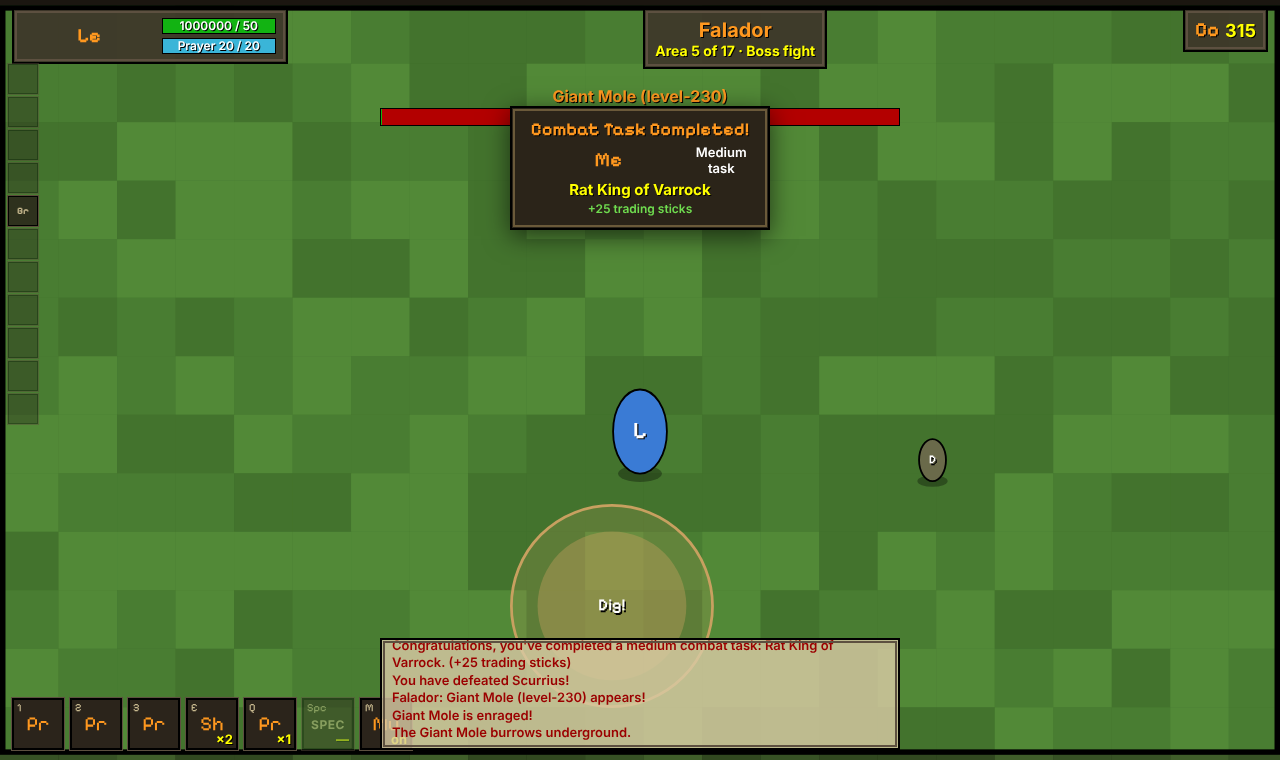
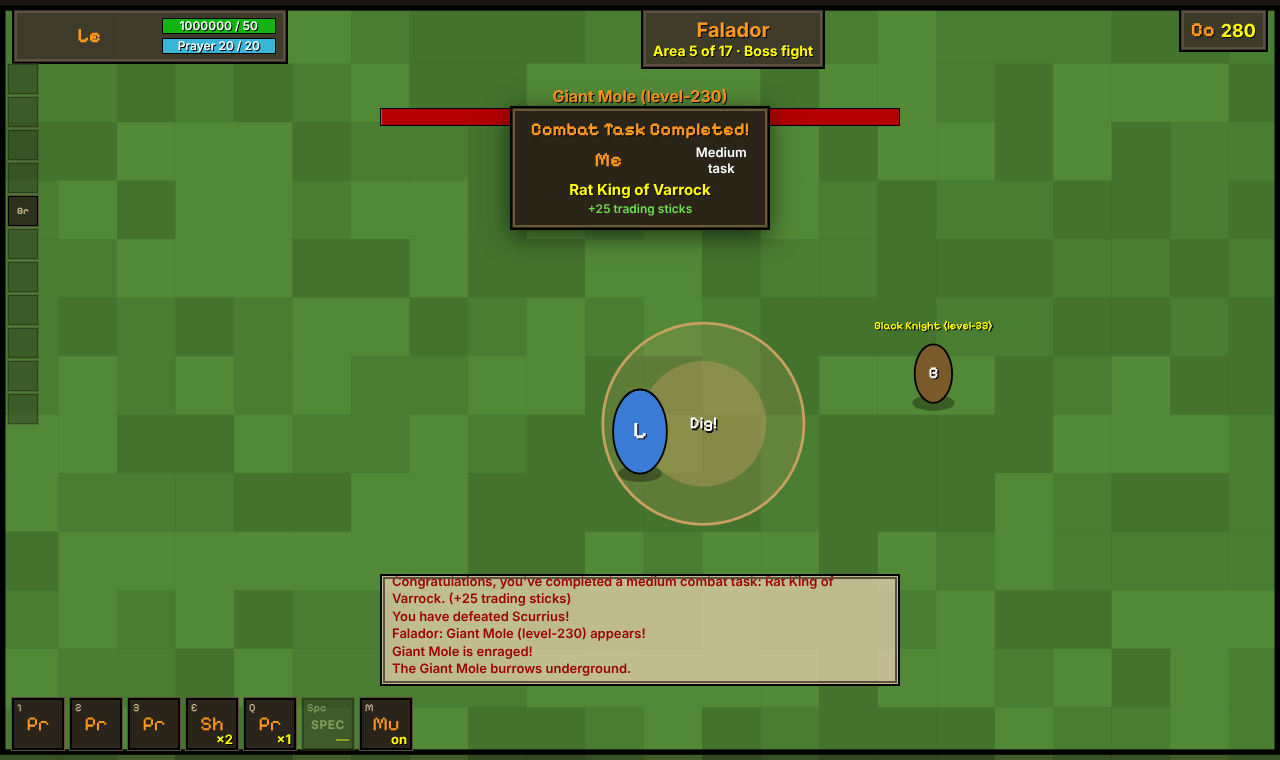
Varied minion attacks and attack shapes, enchanted bolts, max capes, Nex before the raids
About 55 enemy types get a telegraphed move (lunge, smash, spit, breath
cone, volley, nova ring, cross blast). Telegraphs now come in circle,
square, cross, cone and ring shapes, and projectiles draw as arrows,
orbs with tails, rocks or blobs. Adds Adamant arrows, four enchanted
dragon bolts with their wiki effects, Rada's blessing 4, the max capes
(Imbued Saradomin max cape is the best magic cape) and an Imbued
Zamorak cape. The Ancient Prison now comes before the raids.

Claude-Session: https://claude.ai/code/session_01QP3hDncgVMuDYSY9UCTwho

diff --git a/js/game.js b/js/game.js
@@ -767,7 +767,7 @@ function playerAttack(dt) {
     for (let i = 0; i < count; i++) {
       const a = ang + (i - (count - 1) / 2) * spread;
       shots.push({ kind: 'arrow', x: p.x, y: p.y - 30, vx: Math.cos(a) * w.speed, vy: Math.sin(a) * w.speed, life: (w.range * st.range) / w.speed + 0.1,
-        pierce: w.pierce + st.pierce, hit: new Set(), dmg: w.dmg, bolt: w.bolt, dart: w.dart, bounce: (w.bounce || 0) + bv('chain'), icon: ammo && ammo.slot === 'ammo' && ammo.lane === 'ranged' ? ammo.file : null });
+        pierce: w.pierce + st.pierce, hit: new Set(), dmg: w.dmg, bolt: w.bolt, dart: w.dart, bounce: (w.bounce || 0) + bv('chain'), icon: ammo && ammo.slot === 'ammo' && ammo.lane === 'ranged' ? ammo.file : null, proc: ammo && ammo.proc });
     }
   } else {
     sfx(480, 0.09, 'sine', 0.04);
@@ -791,6 +791,55 @@ function specHit(s, e, dmg) {
       if (Math.hypot(o.x - e.x, o.y - e.y) < S.aoe + o.r * 0.5) { const r = rollDamage(s.dmg * 0.6, o, st); damageEnemy(o, r.dmg, r.crit); }
     }
   }
+}
+
+// Enchanted bolt effects
+function boltProc(kind, e, dmg, st) {
+  const P = BOLT_PROCS[kind];
+  if (!P || Math.random() >= P.chance) return;
+  const p = run.p;
+  let extra = 0;
+  if (kind === 'ruby') { extra = Math.min(Math.round(e.hp * 0.2), 100 + 25 * run.stage); p.hp = Math.max(1, p.hp - Math.round(p.hp * 0.1)); }
+  else if (kind === 'diamond') extra = Math.round(Math.max(dmg, 1) * 0.15 + 4 + run.stage);
+  else if (kind === 'onyx') { extra = Math.round(Math.max(dmg, 1) * 0.2 + 3); p.hp = Math.min(st.maxHp, p.hp + (dmg + extra) * 0.25); }
+  else if (kind === 'dragonstone') extra = Math.round(run.skills.ranged * 0.2 * (1 + run.stage * 0.08)) + 2;
+  if (extra > 0) { damageEnemy(e, extra, true); burst(e.x, e.y - e.d.size * 0.4, kind === 'ruby' ? '#e0103a' : kind === 'onyx' ? '#7a3a8a' : kind === 'diamond' ? '#e8f8ff' : '#ff6a1a', 12); }
+}
+
+// Is (x, y) inside a telegraphed attack's area?
+function inTelegraph(t, x, y) {
+  const dx = x - t.x, dy = y - t.y, d = Math.hypot(dx, dy);
+  if (t.shape === 'ring') return d < t.r && d > t.r * 0.45;
+  if (t.shape === 'square') return Math.abs(dx) < t.r && Math.abs(dy) < t.r;
+  if (t.shape === 'cross') return (Math.abs(dx) < t.w / 2 && Math.abs(dy) < t.r) || (Math.abs(dy) < t.w / 2 && Math.abs(dx) < t.r);
+  if (t.shape === 'cone') {
+    const da = Math.abs(((Math.atan2(dy, dx) - t.a + Math.PI * 3) % (Math.PI * 2)) - Math.PI);
+    return d < t.r && da < t.spread / 2;
+  }
+  return d < t.r;
+}
+
+// Minion telegraphed moves (MINION_ATK in data.js)
+function minionMove(e, dt, dist) {
+  const kind = MINION_ATK[e.id];
+  if (!kind || e.summoned && e.d.boss) return;
+  e.mvT = (e.mvT === undefined ? 1.5 + Math.random() * 2.5 : e.mvT) - dt;
+  const reach = { lunge: 280, smash: 110, spit: 400, breath: 280, volley: 420, nova: 200, cross: 360 }[kind];
+  if (e.mvT > 0 || dist > reach) return;
+  e.mvT = 3.2 + Math.random() * 2.2;
+  const p = run.p, a = Math.atan2(p.y - e.y, p.x - e.x), dmg = e.dmg;
+  const col = e.d.style === 'magic' ? '#b070ff' : e.d.style === 'ranged' ? '#7fd04a' : '#ff8a3a';
+  if (kind === 'lunge') {
+    telegraphs.push({ line: true, x: e.x, y: e.y, a, len: 300, w: 46, t: 0.55, max: 0.55, color: '#ffd23a', dmg: dmg * 1.4, style: 'melee', label: '' });
+    setTimeout(() => { if (!e.dead && mode === 'play') e.charge = { vx: Math.cos(a) * 760, vy: Math.sin(a) * 760, t: 0.38, spd: 0 }; }, 550);
+  } else if (kind === 'smash') slam(e.x, e.y - 10, 85, 0.7, dmg * 1.6, 'melee', '#c8a060', '', { shape: 'square' });
+  else if (kind === 'spit') {
+    slam(p.x, p.y, 58, 1.0, dmg * 1.3, e.d.style === 'melee' ? 'ranged' : e.d.style, '#7fd04a', '');
+    eshots.push({ x: e.x, y: e.y - e.d.size * 0.5, vx: (p.x - e.x) / 1.0, vy: (p.y - e.y) / 1.0, r: 7, dmg: 0, style: 'ranged', color: '#7fd04a', life: 1, shape: 'blob', harmless: true });
+  } else if (kind === 'breath') slam(e.x, e.y - 20, 280, 0.75, dmg * 1.5, 'magic', '#ff6a1a', '', { shape: 'cone', a, spread: 0.75 });
+  else if (kind === 'volley') { for (let i = -1; i <= 1; i++) aimShot(e, 430, e.d.style === 'melee' ? 'ranged' : e.d.style, col, dmg, { r: 8, shape: e.d.style === 'magic' ? 'orb' : 'arrow' }, i * 0.2); }
+  else if (kind === 'nova') slam(e.x, e.y - 10, 190, 0.9, dmg * 1.4, e.d.style === 'melee' ? 'magic' : e.d.style, '#9fd8ff', '', { shape: 'ring' });
+  else if (kind === 'cross') slam(p.x, p.y, 210, 0.9, dmg * 1.4, e.d.style === 'melee' ? 'magic' : e.d.style, col, '', { shape: 'cross', w: 52 });
 }
 
 function updateShots(dt) {
@@ -820,6 +869,7 @@ function updateShots(dt) {
           if (s.spec && !r.dmg) r = rollDamage(s.dmg, e, st);
           damageEnemy(e, r.dmg, r.crit || !!s.spec);
           if (s.spec) specHit(s, e, r.dmg);
+          if (s.proc && !e.dead) boltProc(s.proc, e, r.dmg, st);
           if (s.bounce > 0) {
             // Venator bow: the arrow bounces to the next nearby enemy
             const next = enemies.find((o) => !o.dead && !s.hit.has(o) && Math.hypot(o.x - e.x, o.y - e.y) < 220);
@@ -902,6 +952,7 @@ function updateEnemies(dt) {
         eshots.push({ x: e.x, y: e.y - e.d.size * 0.5, vx: dx / dist * sp, vy: (dy + e.d.size * 0.5) / dist * sp, r: 9, dmg: e.dmg, style: e.d.style, color: e.d.caster.color, life: 3 });
       }
     }
+    if (!e.d.boss && !e.d.clue) minionMove(e, dt, realDist);
     const spd = (e.charge ? e.charge.spd : e.d.spd) * (e.slow || 1);
     if (e.charge) {
       e.x += e.charge.vx * dt; e.y += e.charge.vy * dt; e.charge.t -= dt;
@@ -945,7 +996,8 @@ function fan(e, n, step, speed, style, color, dmg, extra) {
   for (let i = 0; i < n; i++) aimShot(e, speed, style, color, dmg, extra, (i - (n - 1) / 2) * step);
 }
 function slam(x, y, r, delay, dmg, style, color, label, extra) {
-  telegraphs.push({ x, y, r, t: delay, max: delay, color, dmg, style, label, noPray: !!(extra && extra.noPray) });
+  const ex = extra || {};
+  telegraphs.push({ x, y, r, t: delay, max: delay, color, dmg, style, label, noPray: !!ex.noPray, shape: ex.shape || 'circle', a: ex.a || 0, spread: ex.spread || 0.6, w: ex.w || 50 });
 }
 function summon(e, id, n, opts = {}) {
   for (let i = 0; i < n; i++) {
@@ -983,7 +1035,8 @@ function clueSpecial(e) {
   const p = run.p, m = e.d.mech || 'slam', dmg = e.dmg;
   const np = { noPray: true };
   if (m === 'bombs') {
-    for (let i = 0; i < 5; i++) slam(p.x + (i ? (Math.random() - 0.5) * 300 : 0), p.y + (i ? (Math.random() - 0.5) * 240 : 0), 60, 1.0 + i * 0.15, dmg * 1.4, e.d.style, '#ff981f', i ? '' : 'Special!');
+    const shapes = ['circle', 'square', 'cross'], sh = shapes[(e.ai.bombN = (e.ai.bombN || 0) + 1) % 3];
+    for (let i = 0; i < 5; i++) slam(p.x + (i ? (Math.random() - 0.5) * 300 : 0), p.y + (i ? (Math.random() - 0.5) * 240 : 0), sh === 'cross' ? 110 : 60, 1.0 + i * 0.15, dmg * 1.4, e.d.style, '#ff981f', i ? '' : 'Special!', { shape: sh, w: 40 });
   } else if (m === 'volley') {
     fan(e, 7, 0.14, 420, e.d.style === 'melee' ? 'ranged' : e.d.style, (e.d.caster && e.d.caster.color) || '#ff981f', dmg);
   } else if (m === 'summon') {
@@ -1285,7 +1338,7 @@ function updateEnemyShots(dt) {
       s.vx = Math.cos(a) * sp; s.vy = Math.sin(a) * sp;
     }
     s.x += s.vx * dt; s.y += s.vy * dt; s.life -= dt;
-    if (Math.hypot(p.x - s.x, p.y - 30 - s.y) < p.r + s.r) {
+    if (!s.harmless && Math.hypot(p.x - s.x, p.y - 30 - s.y) < p.r + s.r) {
       s.life = 0;
       hurtPlayer(s.dmg, s.style, s);
     }
@@ -1301,8 +1354,9 @@ function updateEnemyShots(dt) {
         const dx = p.x - t.x, dy = p.y - t.y, along = dx * Math.cos(t.a) + dy * Math.sin(t.a), off = Math.abs(-dx * Math.sin(t.a) + dy * Math.cos(t.a));
         if (along > 0 && along < t.len && off < t.w / 2) hurtPlayer(t.dmg, t.style);
       } else {
-        fx.push({ kind: 'boom', x: t.x, y: t.y, r: t.r, color: t.color, t: 0.35, max: 0.35 });
-        if (Math.hypot(p.x - t.x, p.y - t.y) < t.r) hurtPlayer(t.dmg, t.style, { noPray: t.noPray });
+        if (t.shape === 'circle' || t.shape === 'ring') fx.push({ kind: 'boom', x: t.x, y: t.y, r: t.r, color: t.color, t: 0.35, max: 0.35 });
+        else burst(t.x, t.y, t.color, 14);
+        if (inTelegraph(t, p.x, p.y)) hurtPlayer(t.dmg, t.style, { noPray: t.noPray });
       }
     }
   }
@@ -1609,6 +1663,25 @@ function draw() {
       ctx.fillStyle = t.color + '66'; ctx.fillRect(0, -t.w / 2, t.len * k, t.w);
       ctx.restore();
       text(t.label, t.x + Math.cos(t.a) * 120, t.y + Math.sin(t.a) * 120, 22, '#fff');
+    } else if (t.shape === 'square') {
+      ctx.fillRect(t.x - t.r, t.y - t.r, t.r * 2, t.r * 2); ctx.strokeRect(t.x - t.r, t.y - t.r, t.r * 2, t.r * 2);
+      ctx.fillStyle = t.color + '66'; ctx.fillRect(t.x - t.r * k, t.y - t.r * k, t.r * 2 * k, t.r * 2 * k);
+      text(t.label, t.x, t.y, 18, '#fff');
+    } else if (t.shape === 'cross') {
+      const w = t.w;
+      for (const [rw, rh] of [[t.r * 2, w], [w, t.r * 2]]) { ctx.fillRect(t.x - rw / 2, t.y - rh / 2, rw, rh); ctx.strokeRect(t.x - rw / 2, t.y - rh / 2, rw, rh); }
+      ctx.fillStyle = t.color + '66';
+      ctx.fillRect(t.x - t.r * k, t.y - w / 2, t.r * 2 * k, w); ctx.fillRect(t.x - w / 2, t.y - t.r * k, w, t.r * 2 * k);
+      text(t.label, t.x, t.y, 18, '#fff');
+    } else if (t.shape === 'cone') {
+      ctx.beginPath(); ctx.moveTo(t.x, t.y); ctx.arc(t.x, t.y, t.r, t.a - t.spread / 2, t.a + t.spread / 2); ctx.closePath(); ctx.fill(); ctx.stroke();
+      ctx.fillStyle = t.color + '66';
+      ctx.beginPath(); ctx.moveTo(t.x, t.y); ctx.arc(t.x, t.y, t.r * k, t.a - t.spread / 2, t.a + t.spread / 2); ctx.closePath(); ctx.fill();
+    } else if (t.shape === 'ring') {
+      ctx.beginPath(); ctx.arc(t.x, t.y, t.r, 0, Math.PI * 2); ctx.arc(t.x, t.y, t.r * 0.45, 0, Math.PI * 2, true); ctx.fill('evenodd'); ctx.stroke();
+      ctx.beginPath(); ctx.arc(t.x, t.y, t.r * 0.45, 0, Math.PI * 2); ctx.stroke();
+      ctx.fillStyle = t.color + '66';
+      ctx.beginPath(); ctx.arc(t.x, t.y, t.r * 0.45 + t.r * 0.55 * k, 0, Math.PI * 2); ctx.arc(t.x, t.y, t.r * 0.45, 0, Math.PI * 2, true); ctx.fill('evenodd');
     } else {
       ctx.beginPath(); ctx.arc(t.x, t.y, t.r, 0, Math.PI * 2); ctx.fill(); ctx.stroke();
       ctx.fillStyle = t.color + '66';
@@ -1665,9 +1738,28 @@ function draw() {
     }
   }
   for (const s of eshots) {
-    ctx.fillStyle = s.color; ctx.shadowColor = s.color; ctx.shadowBlur = 14;
-    ctx.beginPath(); ctx.arc(s.x, s.y, s.r, 0, Math.PI * 2); ctx.fill(); ctx.shadowBlur = 0;
-    ctx.strokeStyle = '#000'; ctx.lineWidth = 1.5; ctx.stroke();
+    const shape = s.shape || (s.style === 'ranged' ? 'arrow' : s.style === 'melee' ? 'rock' : 'orb');
+    const ang = Math.atan2(s.vy, s.vx);
+    ctx.save(); ctx.translate(s.x, s.y); ctx.rotate(ang);
+    ctx.fillStyle = s.color; ctx.strokeStyle = '#000'; ctx.lineWidth = 1.5;
+    if (shape === 'arrow') {
+      ctx.fillRect(-s.r * 2.2, -1.5, s.r * 2.6, 3);
+      ctx.beginPath(); ctx.moveTo(s.r * 1.2, 0); ctx.lineTo(s.r * 0.2, -s.r * 0.6); ctx.lineTo(s.r * 0.2, s.r * 0.6); ctx.closePath(); ctx.fill(); ctx.stroke();
+      ctx.fillStyle = '#eee'; ctx.fillRect(-s.r * 2.2, -3, 5, 6);
+    } else if (shape === 'rock') {
+      ctx.rotate(s.x * 0.05);
+      ctx.beginPath(); for (let i = 0; i < 6; i++) { const rr = s.r * (0.75 + (i % 2) * 0.35); ctx.lineTo(Math.cos(i * 1.05) * rr, Math.sin(i * 1.05) * rr); } ctx.closePath(); ctx.fill(); ctx.stroke();
+    } else if (shape === 'blob') {
+      ctx.globalAlpha = 0.85; ctx.beginPath(); ctx.ellipse(0, 0, s.r * 1.4, s.r, 0, 0, Math.PI * 2); ctx.fill(); ctx.stroke();
+    } else if (shape === 'spike') {
+      ctx.beginPath(); ctx.moveTo(s.r * 1.6, 0); ctx.lineTo(-s.r, -s.r * 0.6); ctx.lineTo(-s.r * 0.5, 0); ctx.lineTo(-s.r, s.r * 0.6); ctx.closePath(); ctx.fill(); ctx.stroke();
+    } else {
+      // magic orb with a fading tail
+      ctx.globalAlpha = 0.35; ctx.beginPath(); ctx.ellipse(-s.r * 1.4, 0, s.r * 1.6, s.r * 0.6, 0, 0, Math.PI * 2); ctx.fill();
+      ctx.globalAlpha = 1; ctx.shadowColor = s.color; ctx.shadowBlur = 14;
+      ctx.beginPath(); ctx.arc(0, 0, s.r, 0, Math.PI * 2); ctx.fill(); ctx.shadowBlur = 0; ctx.stroke();
+    }
+    ctx.restore();
   }
 
   for (const f of fx) {
@@ -2039,6 +2131,7 @@ function itemStatsText(it) {
     const S = SPECS[it.id];
     if (S) bits.push(`<b>Special: ${S.name}</b> (${S.cost}% energy): ${S.info}`);
   }
+  if (it.proc) bits.push(`<b>${BOLT_PROCS[it.proc].name}</b>: ${BOLT_PROCS[it.proc].info}`);
   if (it.def) bits.push(`${it.def > 0 ? '+' : ''}${it.def} defence`);
   if (it.dmg) bits.push(`+${Math.round(it.dmg * 100)}% ${it.lane === 'any' ? '' : LANE_NAME[it.lane] + ' '}damage`);
   if (it.hp) bits.push(`+${it.hp} hitpoints`);

diff --git a/js/data.js b/js/data.js
@@ -36,7 +36,7 @@ const HEROES = [
   { id: 'amik', name: 'Sir Amik Varze', file: 'Sir_Amik_Varze.png', lane: 'melee', weapon: 'rune_scimitar', unlock: { area: 4 },
     perk: 'Leader of the White Knights of Falador. +20 max hitpoints and prayer drains 30% slower.', mods: { hp: 20, ppDrain: 0.7 },
     skills: { attack: 10, strength: 10, defence: 10 }, quotes: [] },
-  { id: 'osmumten', name: 'Osmumten', file: 'Osmumten.png', lane: 'melee', weapon: 'abyssal_tentacle', unlock: { area: 12 },
+  { id: 'osmumten', name: 'Osmumten', file: 'Osmumten.png', lane: 'melee', weapon: 'abyssal_tentacle', unlock: { area: 13 },
     perk: 'The archaeologist of the Tombs of Amascut. Dragonfire and other magic hit 30% softer, and +30 max hitpoints.', mods: { magicTaken: 0.7, hp: 30 },
     skills: { attack: 30, strength: 30, defence: 20 }, quotes: [] },
   { id: 'merlin', name: 'Merlin', file: 'Merlin.png', lane: 'magic', weapon: 'staff_of_fire', unlock: { sticks: 300 },
@@ -143,6 +143,11 @@ item('primordial_boots', 'Primordial boots', 'melee', 'feet', 10, 'uncommon', { 
 item('obsidian_cape', 'Obsidian cape', 'melee', 'cape', 3, 'common', { def: 3, dmg: 0.05 });
 item('fire_cape', 'Fire cape', 'any', 'cape', 11, 'uncommon', { def: 5, dmg: 0.1, hp: 10 });
 item('infernal_cape', 'Infernal cape', 'any', 'cape', 15, 'rare', { def: 8, dmg: 0.16, hp: 15 });
+// Max capes: the best capes for each style (the imbued god max cape is the best magic cape)
+item('max_cape', 'Max cape', 'any', 'cape', 12, 'ultra', { def: 6, dmg: 0.06, pp: 4, hp: 10 });
+item('infernal_max_cape', 'Infernal max cape', 'melee', 'cape', 16, 'ultra', { def: 9, dmg: 0.2, hp: 18, pp: 4 });
+item('imbued_saradomin_max_cape', 'Imbued Saradomin max cape', 'magic', 'cape', 13, 'ultra', { def: 6, dmg: 0.18, hp: 10, pp: 4 }, 'Imbued_Saradomin_max_cape.png');
+item('masori_assembler_max_cape', 'Masori assembler max cape', 'ranged', 'cape', 16, 'ultra', { aspd: 0.18, range: 0.25, dmg: 0.15, pp: 4 });
 item('amulet_of_strength', 'Amulet of strength', 'melee', 'neck', 1, 'common', { dmg: 0.08 });
 item('amulet_of_fury', 'Amulet of fury', 'any', 'neck', 6, 'uncommon', { def: 4, dmg: 0.1, pp: 5 });
 item('amulet_of_torture', 'Amulet of torture', 'melee', 'neck', 10, 'uncommon', { dmg: 0.18, aspd: 0.05 });
@@ -180,9 +185,15 @@ item('necklace_of_anguish', 'Necklace of anguish', 'ranged', 'neck', 10, 'uncomm
 item('archers_ring', 'Archers ring', 'ranged', 'ring', 5, 'common', { dmg: 0.1 });
 item('venator_ring', 'Venator ring', 'ranged', 'ring', 13, 'rare', { dmg: 0.2 });
 item('bronze_arrow', 'Bronze arrow', 'ranged', 'ammo', 0, 'common', { dmg: 0.03 }, 'Bronze_arrow_5.png');
+item('adamant_arrow', 'Adamant arrow', 'ranged', 'ammo', 2, 'common', { dmg: 0.07 }, 'Adamant_arrow_5.png');
 item('rune_arrow', 'Rune arrow', 'ranged', 'ammo', 3, 'common', { dmg: 0.1 }, 'Rune_arrow_5.png');
 item('amethyst_arrow', 'Amethyst arrow', 'ranged', 'ammo', 6, 'common', { dmg: 0.14, pierce: 1 }, 'Amethyst_arrow_5.png');
 item('dragon_arrow', 'Dragon arrow', 'ranged', 'ammo', 10, 'uncommon', { dmg: 0.22, pierce: 1 }, 'Dragon_arrow_5.png');
+// Enchanted dragon bolts: each has its real bolt effect (proc) from the wiki.
+item('dragonstone_dragon_bolts_e', 'Dragonstone dragon bolts (e)', 'ranged', 'ammo', 7, 'uncommon', { dmg: 0.15, proc: 'dragonstone' }, 'Dragonstone_dragon_bolts_(e)_detail.png');
+item('ruby_dragon_bolts_e', 'Ruby dragon bolts (e)', 'ranged', 'ammo', 8, 'rare', { dmg: 0.16, proc: 'ruby' }, 'Ruby_dragon_bolts_(e)_detail.png');
+item('diamond_dragon_bolts_e', 'Diamond dragon bolts (e)', 'ranged', 'ammo', 9, 'rare', { dmg: 0.18, proc: 'diamond' }, 'Diamond_dragon_bolts_(e)_1.png');
+item('onyx_dragon_bolts_e', 'Onyx dragon bolts (e)', 'ranged', 'ammo', 11, 'rare', { dmg: 0.2, proc: 'onyx' }, 'Onyx_dragon_bolts_(e)_1.png');
 // --- Magic armour
 item('blue_wizard_hat', 'Blue wizard hat', 'magic', 'head', 0, 'common', { def: 1, dmg: 0.03 });
 item('mystic_hat', 'Mystic hat', 'magic', 'head', 2, 'common', { def: 2, dmg: 0.05 });
@@ -208,6 +219,7 @@ item('mages_book', "Mage's book", 'magic', 'shield', 4, 'common', { dmg: 0.1 });
 item('arcane_spirit_shield', 'Arcane spirit shield', 'magic', 'shield', 11, 'rare', { def: 10, dmg: 0.12 });
 item('saradomin_cape', 'Saradomin cape', 'magic', 'cape', 3, 'common', { dmg: 0.06 });
 item('imbued_saradomin_cape', 'Imbued Saradomin cape', 'magic', 'cape', 8, 'uncommon', { dmg: 0.12 });
+item('imbued_zamorak_cape', 'Imbued Zamorak cape', 'magic', 'cape', 9, 'uncommon', { dmg: 0.12, def: 2 });
 item('amulet_of_magic', 'Amulet of magic', 'magic', 'neck', 1, 'common', { dmg: 0.08 });
 item('occult_necklace', 'Occult necklace', 'magic', 'neck', 6, 'uncommon', { dmg: 0.2 });
 item('seers_ring', 'Seers ring', 'magic', 'ring', 5, 'common', { dmg: 0.1 });
@@ -216,6 +228,7 @@ item('magus_ring', 'Magus ring', 'magic', 'ring', 13, 'rare', { dmg: 0.2 });
 item('amulet_of_glory', 'Amulet of glory', 'any', 'neck', 2, 'common', { def: 3, dmg: 0.06 }, 'Amulet_of_glory.png');
 item('ring_of_wealth', 'Ring of wealth', 'any', 'ring', 1, 'common', { gold: 0.25 });
 item('holy_blessing', 'Holy blessing', 'any', 'ammo', 2, 'common', { pp: 10, def: 1 });
+item('radas_blessing_4', "Rada's blessing 4", 'any', 'ammo', 6, 'uncommon', { pp: 20, def: 2, gold: 0.08 }, "Rada's_blessing_4.png");
 item('shark', 'Shark', 'any', 'food', 0, 'common', { price: 22, desc: 'Heals 20 hitpoints. Eat with E. Carry up to 5.' });
 item('ppot', 'Prayer potion', 'any', 'food', 0, 'common', { price: 26, desc: 'Restores 20 prayer points. Drink with Q. Carry up to 5.' }, 'Prayer_potion(4).png');
 
@@ -442,10 +455,10 @@ mon('graardor', 'General Graardor', 'General_Graardor.png', 624, 5000, 150, 28, 
 mon('zulrah', 'Zulrah', 'Zulrah_(serpentine).png', 725, 5600, 0, 30, 200, 380, 'ranged', { boss: 'zulrah' });
 mon('jad', 'TzTok-Jad', 'TzTok-Jad.png', 702, 6400, 55, 32, 230, 420, 'melee', { boss: 'jad' });
 mon('vorkath', 'Vorkath', 'Vorkath.png', 732, 7600, 0, 34, 230, 480, 'magic', { boss: 'vorkath' });
-mon('wardens', "Tumeken's Warden", "Tumeken's_Warden.png", 544, 8800, 0, 36, 230, 540, 'magic', { boss: 'wardens' });
-mon('olm', 'Great Olm', 'Great_Olm.png', 1043, 10000, 0, 38, 240, 600, 'magic', { boss: 'olm' });
-mon('verzik', 'Verzik Vitur', 'Verzik_Vitur.png', 1040, 11500, 70, 40, 230, 680, 'magic', { boss: 'verzik' });
-mon('nex', 'Nex', 'Nex.png', 1001, 13000, 95, 44, 190, 760, 'magic', { boss: 'nex' });
+mon('wardens', "Tumeken's Warden", "Tumeken's_Warden.png", 544, 10000, 0, 38, 230, 540, 'magic', { boss: 'wardens' });
+mon('olm', 'Great Olm', 'Great_Olm.png', 1043, 11500, 0, 40, 240, 600, 'magic', { boss: 'olm' });
+mon('verzik', 'Verzik Vitur', 'Verzik_Vitur.png', 1040, 13000, 70, 44, 230, 680, 'magic', { boss: 'verzik' });
+mon('nex', 'Nex', 'Nex.png', 1001, 8800, 95, 36, 190, 760, 'magic', { boss: 'nex' });
 mon('zuk', 'TzKal-Zuk', 'TzKal-Zuk.png', 1400, 16000, 0, 60, 280, 0, 'magic', { boss: 'zuk' });
 
 // Zulrah's three forms
@@ -474,10 +487,10 @@ const AREAS = [
   { name: 'Zul-Andra', map: [0, 0, 2250, 3090, 1], bg: 'Zul-Andra.png', music: 'Coil.ogg', hordes: ['snakeling', 'lizardman'], elites: ['lizardman_brute'], boss: 'zulrah', look: ['#2e5a4a', '#244a3c', '#3a6a58'] },
   { name: 'Fight Caves', map: [23, 0, 2440, 5150, 1], bg: 'TzHaar_Fight_Cave.png', music: 'TzHaar!.ogg', hordes: ['tz_kih', 'tz_kek', 'tok_xil'], elites: ['yt_mejkot', 'ket_zek'], boss: 'jad', look: ['#3a1a10', '#2b130b', '#6b2a0e'] },
   { name: 'Ungael', map: [0, 0, 2272, 4062, 1.6], bg: 'Ungael.png', music: 'On_Thin_Ice.ogg', hordes: ['zombie', 'skeleton'], elites: ['brutal_black_dragon'], boss: 'vorkath', look: ['#5a6a7a', '#4a5a6a', '#6a7a8a'] },
+  { name: 'Ancient Prison', map: [7, 2, 2912, 5335, 1.3], bg: 'Fighting_Nex.png', music: 'The_Ancient_Prison.ogg', hordes: ['spiritual_warrior', 'spiritual_ranger', 'spiritual_mage'], elites: ['fumus', 'glacies'], boss: 'nex', look: ['#3a2a4a', '#2e223c', '#4a3a5a'] },
   { name: 'Tombs of Amascut', map: [0, 0, 3262, 2785, 1.3], bg: "Tombs_of_Amascut_-_fighting_Tumeken's_Warden.png", music: "Amascut's_Promise.ogg", hordes: ['scarab_swarm', 'baboon_brawler', 'baboon_thrower'], elites: ['baboon_mage'], boss: 'wardens', look: ['#8a6a3a', '#7a5a2e', '#9a7a48'] },
   { name: 'Chambers of Xeric', map: [0, 0, 1250, 3560, 1], bg: 'Fighting_Great_Olm.png', music: 'Fire_in_the_Deep.ogg', hordes: ['deathly_ranger', 'deathly_mage'], elites: ['lizardman_shaman', 'skeletal_mystic'], boss: 'olm', look: ['#2e3a4a', '#25303c', '#3a4858'] },
   { name: 'Theatre of Blood', map: [0, 0, 3660, 3220, 1], bg: 'Fighting_Verzik_Vitur.png', music: 'The_Fat_Lady_Sings.ogg', hordes: ['nylocas_ischyros', 'nylocas_toxobolos', 'nylocas_hagios'], elites: [], boss: 'verzik', look: ['#4a1a1a', '#3a1414', '#5a2424'] },
-  { name: 'Ancient Prison', map: [7, 2, 2912, 5335, 1.3], bg: 'Fighting_Nex.png', music: 'The_Ancient_Prison.ogg', hordes: ['spiritual_warrior', 'spiritual_ranger', 'spiritual_mage'], elites: ['fumus', 'glacies'], boss: 'nex', look: ['#3a2a4a', '#2e223c', '#4a3a5a'] },
   { name: 'The Inferno', map: [23, 0, 2500, 5100, 1], bg: 'Inferno_arena_overview.png', music: 'Inferno.ogg', hordes: ['jal_nib', 'jal_mejrah', 'jal_ak'], elites: ['jal_imkot', 'jal_xil', 'jal_zek'], boss: 'zuk', look: ['#4a1408', '#3a1006', '#6a200a'] },
 ];
 const WAVES_PER_AREA = 2;
@@ -635,6 +648,28 @@ const CONTRACTS = [
   { id: 'clouding', name: 'Contract of Sensory Clouding', gain: '+2 Multishot', cost: 'Enemies hit 35% harder' },
   { id: 'glyphic', name: 'Contract of Glyphic Attenuation', gain: '+25% critical hit chance and a full special attack bar', cost: 'Enemies have 40% more hitpoints' },
 ];
+// Enchanted bolt effects (OSRS names and odds from the wiki).
+const BOLT_PROCS = {
+  dragonstone: { name: "Dragon's breath", chance: 0.06, info: "6%: dragonfire for extra damage based on your Ranged level" },
+  ruby: { name: 'Blood Forfeit', chance: 0.06, info: '6%: takes 20% of the target\'s hitpoints, costs you 10% of yours' },
+  diamond: { name: 'Armour Piercing', chance: 0.1, info: '10%: a guaranteed hit with 15% more damage' },
+  onyx: { name: 'Life Leech', chance: 0.11, info: '11%: 20% extra damage and heals you for a quarter of it' },
+};
+// Minion attacks: on top of walking into you, these enemies have a telegraphed move.
+// lunge: dashes along a line. smash: ground-pound square around itself. spit: lobbed splash where you stand.
+// breath: a cone. volley: three projectiles. nova: a ring around itself (stand close to dodge). cross: a plus-shaped blast on you.
+const MINION_ATK = {
+  giant_rat: 'lunge', skeleton: 'lunge', ghost: 'nova', giant_bat: 'lunge', dark_wizard: 'cross', guard: 'lunge', barbarian: 'smash',
+  black_knight: 'lunge', moss_giant: 'smash', dwarf: 'smash', white_knight: 'lunge', hill_giant: 'smash', lesser_demon: 'spit',
+  kalphite_worker: 'lunge', kalphite_soldier: 'smash', kalphite_guardian: 'smash', green_dragon: 'breath', ankou: 'nova',
+  greater_demon: 'spit', black_demon: 'smash', ork: 'lunge', ogre: 'smash', hobgoblin: 'lunge', snakeling: 'spit', lizardman: 'spit',
+  lizardman_brute: 'smash', tz_kih: 'lunge', tz_kek: 'smash', tok_xil: 'volley', yt_mejkot: 'nova', ket_zek: 'cross',
+  brutal_black_dragon: 'breath', scarab_swarm: 'lunge', baboon_brawler: 'lunge', baboon_thrower: 'volley', baboon_mage: 'cross',
+  deathly_ranger: 'volley', deathly_mage: 'cross', lizardman_shaman: 'spit', skeletal_mystic: 'nova', nylocas_ischyros: 'smash',
+  nylocas_toxobolos: 'volley', nylocas_hagios: 'cross', spiritual_warrior: 'lunge', spiritual_ranger: 'volley', spiritual_mage: 'cross',
+  fumus: 'spit', glacies: 'nova', jal_mejrah: 'lunge', jal_ak: 'spit', jal_imkot: 'smash', jal_xil: 'volley', jal_zek: 'cross',
+  sergeant_strongstack: 'smash', sergeant_steelwill: 'cross', sergeant_grimspike: 'volley', cow: 'lunge', chicken: 'lunge',
+};
 const POTION_CHANCE = { normal: 0.012, elite: 0.06 };
 // Redberry pie: a separate ground drop that heals. Likelier when you're hurt.
 const PIE = { name: 'Redberry pie', file: 'Redberry_pie.png', heal: 0.25 };

diff --git a/index.html b/index.html
@@ -153,7 +153,7 @@ img.wiki { image-rendering: auto; }
 /* Shop */
 .shop { grid-template-columns: minmax(0, 1fr) minmax(0, 1.35fr); margin-top: 14px; align-items: start; }
 @media (max-width: 760px) { .shop { grid-template-columns: 1fr; } #chat { bottom: 74px; max-height: 72px; font-size: 12px; padding: 4px 8px; } }
-@media (min-width: 761px) and (max-width: 1240px) { #chat { bottom: 74px; } }
+@media (min-width: 761px) and (max-width: 1500px) { #chat { bottom: 74px; } }
 .skills { display: grid; grid-template-columns: repeat(auto-fill, minmax(150px, 1fr)); gap: 6px; }
 .skill {
   display: grid; grid-template-columns: 26px 1fr auto; gap: 6px; align-items: center;

diff --git a/CREDITS.md b/CREDITS.md
@@ -26,10 +26,10 @@ Area backgrounds are top-down tiles from the OSRS Wiki world map (https://maps.r
 | Zul-Andra | https://oldschool.runescape.wiki/w/File:Coil.ogg |
 | Fight Caves | https://oldschool.runescape.wiki/w/File:TzHaar!.ogg |
 | Ungael | https://oldschool.runescape.wiki/w/File:On_Thin_Ice.ogg |
+| Ancient Prison | https://oldschool.runescape.wiki/w/File:The_Ancient_Prison.ogg |
 | Tombs of Amascut | https://oldschool.runescape.wiki/w/File:Amascut%27s_Promise.ogg |
 | Chambers of Xeric | https://oldschool.runescape.wiki/w/File:Fire_in_the_Deep.ogg |
 | Theatre of Blood | https://oldschool.runescape.wiki/w/File:The_Fat_Lady_Sings.ogg |
-| Ancient Prison | https://oldschool.runescape.wiki/w/File:The_Ancient_Prison.ogg |
 | The Inferno | https://oldschool.runescape.wiki/w/File:Inferno.ogg |
 | Title screen | https://oldschool.runescape.wiki/w/File:Scape_Main.ogg |
 | Shop | https://oldschool.runescape.wiki/w/File:Sea_Shanty_2.ogg |
@@ -120,6 +120,10 @@ Area backgrounds are top-down tiles from the OSRS Wiki world map (https://maps.r
 | Item | Obsidian cape | https://oldschool.runescape.wiki/w/File:Obsidian_cape.png |
 | Item | Fire cape | https://oldschool.runescape.wiki/w/File:Fire_cape.png |
 | Item | Infernal cape | https://oldschool.runescape.wiki/w/File:Infernal_cape.png |
+| Item | Max cape | https://oldschool.runescape.wiki/w/File:Max_cape.png |
+| Item | Infernal max cape | https://oldschool.runescape.wiki/w/File:Infernal_max_cape.png |
+| Item | Imbued Saradomin max cape | https://oldschool.runescape.wiki/w/File:Imbued_Saradomin_max_cape.png |
+| Item | Masori assembler max cape | https://oldschool.runescape.wiki/w/File:Masori_assembler_max_cape.png |
 | Item | Amulet of strength | https://oldschool.runescape.wiki/w/File:Amulet_of_strength.png |
 | Item | Amulet of fury | https://oldschool.runescape.wiki/w/File:Amulet_of_fury.png |
 | Item | Amulet of torture | https://oldschool.runescape.wiki/w/File:Amulet_of_torture.png |
@@ -156,9 +160,14 @@ Area backgrounds are top-down tiles from the OSRS Wiki world map (https://maps.r
 | Item | Archers ring | https://oldschool.runescape.wiki/w/File:Archers_ring.png |
 | Item | Venator ring | https://oldschool.runescape.wiki/w/File:Venator_ring.png |
 | Item | Bronze arrow | https://oldschool.runescape.wiki/w/File:Bronze_arrow_5.png |
+| Item | Adamant arrow | https://oldschool.runescape.wiki/w/File:Adamant_arrow_5.png |
 | Item | Rune arrow | https://oldschool.runescape.wiki/w/File:Rune_arrow_5.png |
 | Item | Amethyst arrow | https://oldschool.runescape.wiki/w/File:Amethyst_arrow_5.png |
 | Item | Dragon arrow | https://oldschool.runescape.wiki/w/File:Dragon_arrow_5.png |
+| Item | Dragonstone dragon bolts (e) | https://oldschool.runescape.wiki/w/File:Dragonstone_dragon_bolts_(e)_detail.png |
+| Item | Ruby dragon bolts (e) | https://oldschool.runescape.wiki/w/File:Ruby_dragon_bolts_(e)_detail.png |
+| Item | Diamond dragon bolts (e) | https://oldschool.runescape.wiki/w/File:Diamond_dragon_bolts_(e)_1.png |
+| Item | Onyx dragon bolts (e) | https://oldschool.runescape.wiki/w/File:Onyx_dragon_bolts_(e)_1.png |
 | Item | Blue wizard hat | https://oldschool.runescape.wiki/w/File:Blue_wizard_hat.png |
 | Item | Mystic hat | https://oldschool.runescape.wiki/w/File:Mystic_hat.png |
 | Item | Ahrim's hood | https://oldschool.runescape.wiki/w/File:Ahrim%27s_hood.png |
@@ -183,6 +192,7 @@ Area backgrounds are top-down tiles from the OSRS Wiki world map (https://maps.r
 | Item | Arcane spirit shield | https://oldschool.runescape.wiki/w/File:Arcane_spirit_shield.png |
 | Item | Saradomin cape | https://oldschool.runescape.wiki/w/File:Saradomin_cape.png |
 | Item | Imbued Saradomin cape | https://oldschool.runescape.wiki/w/File:Imbued_Saradomin_cape.png |
+| Item | Imbued Zamorak cape | https://oldschool.runescape.wiki/w/File:Imbued_Zamorak_cape.png |
 | Item | Amulet of magic | https://oldschool.runescape.wiki/w/File:Amulet_of_magic.png |
 | Item | Occult necklace | https://oldschool.runescape.wiki/w/File:Occult_necklace.png |
 | Item | Seers ring | https://oldschool.runescape.wiki/w/File:Seers_ring.png |
@@ -190,6 +200,7 @@ Area backgrounds are top-down tiles from the OSRS Wiki world map (https://maps.r
 | Item | Amulet of glory | https://oldschool.runescape.wiki/w/File:Amulet_of_glory.png |
 | Item | Ring of wealth | https://oldschool.runescape.wiki/w/File:Ring_of_wealth.png |
 | Item | Holy blessing | https://oldschool.runescape.wiki/w/File:Holy_blessing.png |
+| Item | Rada's blessing 4 | https://oldschool.runescape.wiki/w/File:Rada%27s_blessing_4.png |
 | Item | Shark | https://oldschool.runescape.wiki/w/File:Shark.png |
 | Item | Prayer potion | https://oldschool.runescape.wiki/w/File:Prayer_potion(4).png |
 | Item | Adamant scimitar | https://oldschool.runescape.wiki/w/File:Adamant_scimitar.png |
@@ -424,10 +435,10 @@ Area backgrounds are top-down tiles from the OSRS Wiki world map (https://maps.r
 | Background | Zul-Andra | https://oldschool.runescape.wiki/w/File:Zul-Andra.png |
 | Background | Fight Caves | https://oldschool.runescape.wiki/w/File:TzHaar_Fight_Cave.png |
 | Background | Ungael | https://oldschool.runescape.wiki/w/File:Ungael.png |
+| Background | Ancient Prison | https://oldschool.runescape.wiki/w/File:Fighting_Nex.png |
 | Background | Tombs of Amascut | https://oldschool.runescape.wiki/w/File:Tombs_of_Amascut_-_fighting_Tumeken%27s_Warden.png |
 | Background | Chambers of Xeric | https://oldschool.runescape.wiki/w/File:Fighting_Great_Olm.png |
 | Background | Theatre of Blood | https://oldschool.runescape.wiki/w/File:Fighting_Verzik_Vitur.png |
-| Background | Ancient Prison | https://oldschool.runescape.wiki/w/File:Fighting_Nex.png |
 | Background | The Inferno | https://oldschool.runescape.wiki/w/File:Inferno_arena_overview.png |
 | Skill | Attack | https://oldschool.runescape.wiki/w/File:Attack_icon.png |
 | Skill | Strength | https://oldschool.runescape.wiki/w/File:Strength_icon.png |
